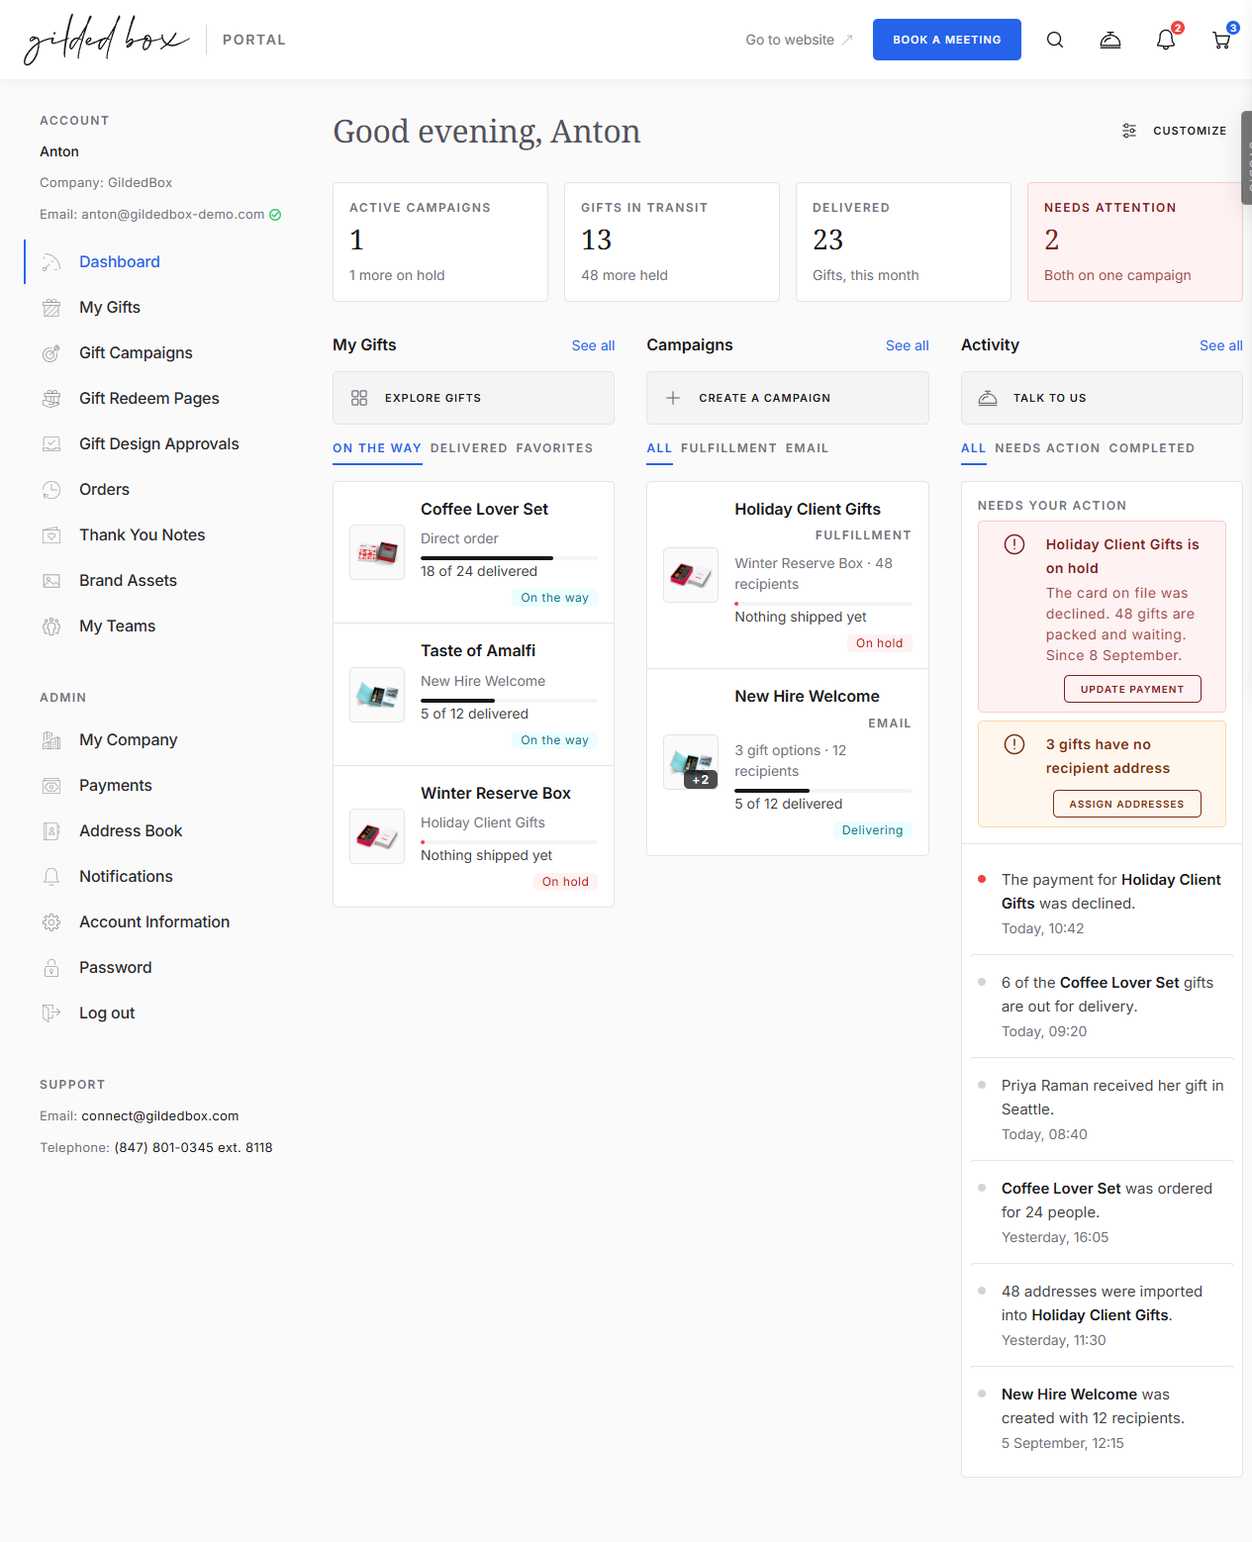
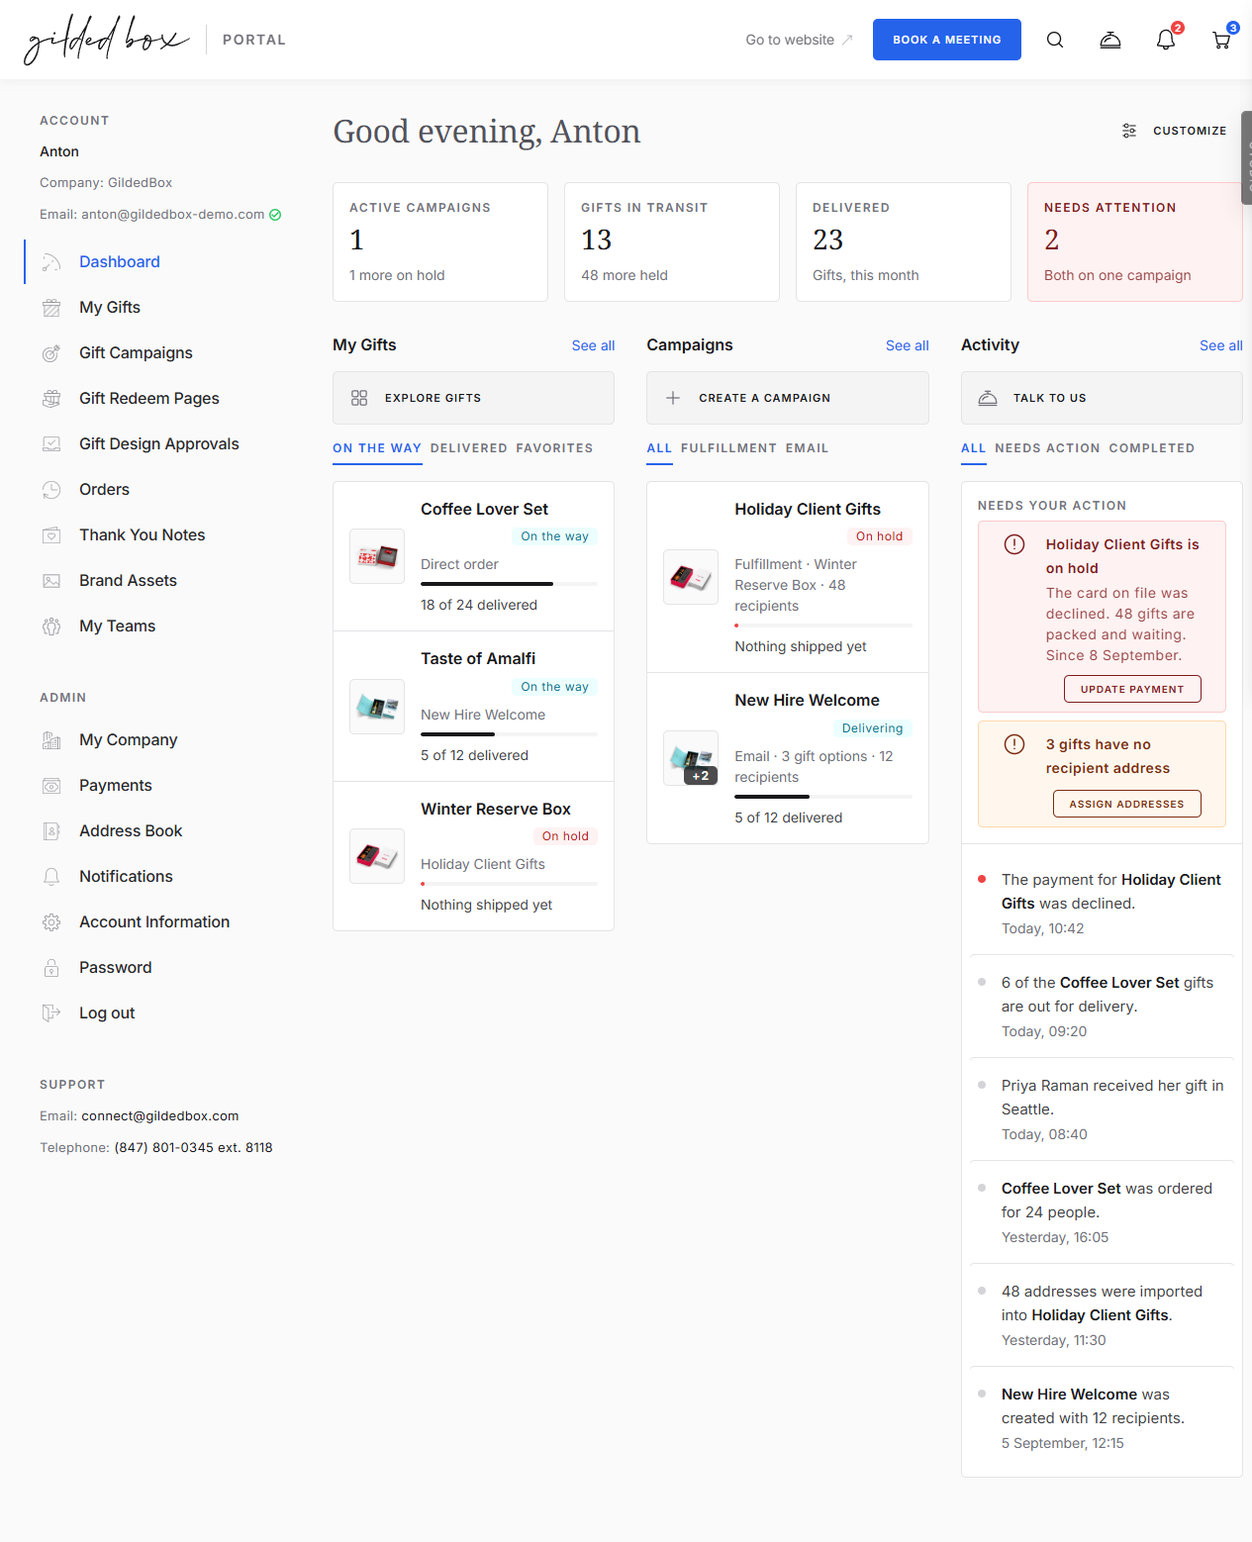
feat(portal): the catalogue slides out on the dashboard itself, and the card sheds its last floor
EXPLORE GIFTS OPENS THE CATALOGUE HERE (Ton, twice: going to
portal.html was a page change dressed as a door). The Tiffany
showcase is ported into live/catalog-overlay.js, a shared page
snippet: the same markup shape, the same vendored v1 catalogue at
?embed=1, and the same measured choreography value for value,
including the curve that was sampled frame by frame on 19.08 and
must not drift. Doors prime the frame on hover, the first open pays
for the load, Esc and the backdrop close it, and the close control
inside the framed catalogue reports back by postMessage as before.

portal.html keeps its own copy for now, on purpose: its overlay is
wired into hero buttons, priming and variants, and rewiring an
approved door under a deadline is how approved things break. One
owner is the next wave, and it is in the report.

CARD v3. The status went back to the top right of the name line,
where a state is looked for, and the TYPE stopped being an eyebrow
altogether: it is the first word of the context line now, which is
the sentence a gift row has always spoken («Direct order · 24
recipients»). A campaign says «Fulfillment · Winter Reserve Box · 48
recipients» in the same slot. One structure for both skins, the
eyebrow floor gone, and the card is a storey shorter than it was
this morning.

Measured after the port: the overlay opens and lands (open settled
revealed), Esc returns display:none with the scroll lock released
[…]

Changed region(s): [[0.2775, 0.3389, 0.4625, 0.6162], [0.5241, 0.3389, 0.7399, 0.5546], [0.5241, 0.3697, 0.5549, 0.4005]]

diff --git a/live/portal-dashboard.html b/live/portal-dashboard.html
@@ -824,19 +824,10 @@ a.gbppd-door, body.gb-demo a.gbppd-door { color: var(--zinc-900); }
    with the ink filling it, and the words under it. The stopped
    campaign fills in the alert's error tone, so the one red line on
    the page is the one thing that is not moving. */
-/* AND THE STATUS CAME DOWN TO THE PROGRESS. "On the way" and "18 of
-   24 delivered" are one family — how far the delivery has got — so
-   they stand on one line, the words at the left and the badge hard
-   against the right. The axis is locked the same way as before. */
+/* The status went back up to the name line (v3): the top right of a
+   card is where a state is looked for, and the progress line is left
+   to say one thing. */
 .gbppd-far { display: block; margin-top: var(--space-8); }
-.gbppd-far__row {
-  display: flex;
-  align-items: center;
-  gap: var(--space-8);
-  flex-wrap: wrap;
-}
-.gbppd-far__row .gb-badge { margin-left: auto; line-height: 1; }
-.gbppd-far__row .gbppd-row__far { margin-top: 0; }
 .gbppd-far__track {
   display: block;
   height: 4px;                       /* NO TOKEN: half of --space-8, the thinnest bar that still reads as a bar */
@@ -934,12 +925,14 @@ a.gbppd-door, body.gb-demo a.gbppd-door { color: var(--zinc-900); }
    the multi gift one, so the flexibility is visible rather than
    promised.
 */
-/* THE TYPE RIDES WITH THE NAME (10.09). It stood on a floor of its
-   own above the title and the card paid a storey for it; a type is
-   metadata OF the identity, so it sits at the right end of the name
-   line, where the status used to be. The gift skin has no type, and
-   that end of its line stays empty: the name owns the row. */
-.gbppd-row__type { flex: 0 0 auto; margin-left: auto; }
+/* THE TYPE IS A WORD OF THE CONTEXT LINE NOW (v3, 10.09). It was an
+   eyebrow on a floor of its own, then a chip at the end of the name
+   line; both spent a card's room on two words. A gift row has always
+   opened its context with where it came from («Direct order · 24
+   recipients»), and a campaign is the same sentence with its type in
+   that first slot: «Fulfillment · Winter Reserve Box · 48
+   recipients». One structure for both skins, one floor fewer, and
+   the eyebrow voice leaves the card entirely. */
 .gbppd-thumbwrap { position: relative; }
 .gbppd-thumbwrap .gbppd-more-count {
   position: absolute;
@@ -1750,7 +1743,7 @@ html[data-gbppd-state="empty"] .gbppd-filled { display: none; }
               <h2 class="gbppd-zone" id="gbppdGiftsTitle">My Gifts</h2>
               <a class="gbppd-more" href="portal.html">See all</a>
             </div>
-            <a class="gbppd-act" href="portal.html?nav=ton&amp;catalog=open">
+            <a class="gbppd-act" href="catalog/index.html" data-gbppd-catalog>
                 <span data-gb-icon="grid" data-gb-icon-size="20"></span>
                 <span class="gbppd-act__name">Explore gifts</span>
                 <span class="gbppd-act__say">The catalog, curated by occasion and budget.</span>
@@ -1769,27 +1762,27 @@ html[data-gbppd-state="empty"] .gbppd-filled { display: none; }
               <a class="gbppd-row" id="ord-coffee" href="#ord-coffee" data-gbppd-order="ord-coffee">
                 <span class="gbppd-thumbwrap"><img class="gbppd-thumb" src="../system/assets/products/1094-main.webp" alt="" loading="lazy"></span>
                 <span>
-                  <span class="gbppd-row__what"><span class="gbppd-row__title">Coffee Lover Set</span></span>
+                  <span class="gbppd-row__what"><span class="gbppd-row__title">Coffee Lover Set</span><span class="gb-badge gb-badge--quiet gb-badge--info">On the way</span></span>
                   <span class="gbppd-row__who">Direct order</span>
-                  <span class="gbppd-far"><span class="gbppd-far__track"><span class="gbppd-far__fill" style="width: 75%"></span></span><span class="gbppd-far__row"><span class="gbppd-row__far">18 of 24 delivered</span><span class="gb-badge gb-badge--quiet gb-badge--info">On the way</span></span></span>
+                  <span class="gbppd-far"><span class="gbppd-far__track"><span class="gbppd-far__fill" style="width: 75%"></span></span><span class="gbppd-row__far">18 of 24 delivered</span></span>
                 </span>
               </a>
 
               <a class="gbppd-row" id="ord-amalfi" href="#ord-amalfi" data-gbppd-order="ord-amalfi">
                 <span class="gbppd-thumbwrap"><img class="gbppd-thumb" src="../system/assets/products/1081-main.webp" alt="" loading="lazy"></span>
                 <span>
-                  <span class="gbppd-row__what"><span class="gbppd-row__title">Taste of Amalfi</span></span>
+                  <span class="gbppd-row__what"><span class="gbppd-row__title">Taste of Amalfi</span><span class="gb-badge gb-badge--quiet gb-badge--info">On the way</span></span>
                   <span class="gbppd-row__who">New Hire Welcome</span>
-                  <span class="gbppd-far"><span class="gbppd-far__track"><span class="gbppd-far__fill" style="width: 42%"></span></span><span class="gbppd-far__row"><span class="gbppd-row__far">5 of 12 delivered</span><span class="gb-badge gb-badge--quiet gb-badge--info">On the way</span></span></span>
+                  <span class="gbppd-far"><span class="gbppd-far__track"><span class="gbppd-far__fill" style="width: 42%"></span></span><span class="gbppd-row__far">5 of 12 delivered</span></span>
                 </span>
               </a>
 
               <a class="gbppd-row" id="ord-holiday" href="#camp-holiday" data-gbppd-order="ord-holiday">
                 <span class="gbppd-thumbwrap"><img class="gbppd-thumb" src="../system/assets/products/1118-main.webp" alt="" loading="lazy"></span>
                 <span>
-                  <span class="gbppd-row__what"><span class="gbppd-row__title">Winter Reserve Box</span></span>
+                  <span class="gbppd-row__what"><span class="gbppd-row__title">Winter Reserve Box</span><span class="gb-badge gb-badge--quiet gb-badge--error">On hold</span></span>
                   <span class="gbppd-row__who">Holiday Client Gifts</span>
-                  <span class="gbppd-far gbppd-far--stopped"><span class="gbppd-far__track"><span class="gbppd-far__fill" style="width: 2%"></span></span><span class="gbppd-far__row"><span class="gbppd-row__far">Nothing shipped yet</span><span class="gb-badge gb-badge--quiet gb-badge--error">On hold</span></span></span>
+                  <span class="gbppd-far gbppd-far--stopped"><span class="gbppd-far__track"><span class="gbppd-far__fill" style="width: 2%"></span></span><span class="gbppd-row__far">Nothing shipped yet</span></span>
                 </span>
               </a>
 
@@ -1803,18 +1796,18 @@ html[data-gbppd-state="empty"] .gbppd-filled { display: none; }
               <a class="gbppd-row" id="ord-founders" href="#ord-founders" data-gbppd-order="ord-founders">
                 <span class="gbppd-thumbwrap"><img class="gbppd-thumb" src="../system/assets/products/1106-main.webp" alt="" loading="lazy"></span>
                 <span>
-                  <span class="gbppd-row__what"><span class="gbppd-row__title">Founders Day Box</span></span>
+                  <span class="gbppd-row__what"><span class="gbppd-row__title">Founders Day Box</span><span class="gb-badge gb-badge--quiet gb-badge--success">Delivered</span></span>
                   <span class="gbppd-row__who">Direct order &middot; 22 August</span>
-                  <span class="gbppd-far"><span class="gbppd-far__track"><span class="gbppd-far__fill" style="width: 100%"></span></span><span class="gbppd-far__row"><span class="gbppd-row__far">All 30 delivered</span><span class="gb-badge gb-badge--quiet gb-badge--success">Delivered</span></span></span>
+                  <span class="gbppd-far"><span class="gbppd-far__track"><span class="gbppd-far__fill" style="width: 100%"></span></span><span class="gbppd-row__far">All 30 delivered</span></span>
                 </span>
               </a>
 
               <a class="gbppd-row" id="ord-thankyou" href="#ord-thankyou" data-gbppd-order="ord-thankyou">
                 <span class="gbppd-thumbwrap"><img class="gbppd-thumb" src="../system/assets/products/1112-main.webp" alt="" loading="lazy"></span>
                 <span>
-                  <span class="gbppd-row__what"><span class="gbppd-row__title">Client Thank You</span></span>
+                  <span class="gbppd-row__what"><span class="gbppd-row__title">Client Thank You</span><span class="gb-badge gb-badge--quiet gb-badge--success">Delivered</span></span>
                   <span class="gbppd-row__who">Direct order &middot; 2 August</span>
-                  <span class="gbppd-far"><span class="gbppd-far__track"><span class="gbppd-far__fill" style="width: 100%"></span></span><span class="gbppd-far__row"><span class="gbppd-row__far">All 15 delivered</span><span class="gb-badge gb-badge--quiet gb-badge--success">Delivered</span></span></span>
+                  <span class="gbppd-far"><span class="gbppd-far__track"><span class="gbppd-far__fill" style="width: 100%"></span></span><span class="gbppd-row__far">All 15 delivered</span></span>
                 </span>
               </a>
 
@@ -1890,9 +1883,9 @@ html[data-gbppd-state="empty"] .gbppd-filled { display: none; }
               <a class="gbppd-row gbppd-camp" id="camp-holiday" href="#camp-holiday" data-gbppd-type="fulfillment" data-gbppd-order="ord-holiday">
                 <span class="gbppd-thumbwrap"><img class="gbppd-thumb" src="../system/assets/products/1118-main.webp" alt="" loading="lazy"></span>
                 <span>
-                  <span class="gbppd-row__what"><span class="gbppd-row__title">Holiday Client Gifts</span><span class="gb-eyebrow gbppd-row__type">Fulfillment</span></span>
-                  <span class="gbppd-row__who">Winter Reserve Box &middot; 48 recipients</span>
-                  <span class="gbppd-far gbppd-far--stopped"><span class="gbppd-far__track"><span class="gbppd-far__fill" style="width: 2%"></span></span><span class="gbppd-far__row"><span class="gbppd-row__far">Nothing shipped yet</span><span class="gb-badge gb-badge--quiet gb-badge--error">On hold</span></span></span>
+                  <span class="gbppd-row__what"><span class="gbppd-row__title">Holiday Client Gifts</span><span class="gb-badge gb-badge--quiet gb-badge--error">On hold</span></span>
+                  <span class="gbppd-row__who">Fulfillment &middot; Winter Reserve Box &middot; 48 recipients</span>
+                  <span class="gbppd-far gbppd-far--stopped"><span class="gbppd-far__track"><span class="gbppd-far__fill" style="width: 2%"></span></span><span class="gbppd-row__far">Nothing shipped yet</span></span>
                 </span>
               </a>
 
@@ -1909,9 +1902,9 @@ html[data-gbppd-state="empty"] .gbppd-filled { display: none; }
               <a class="gbppd-row gbppd-camp" id="camp-newhire" href="#camp-newhire" data-gbppd-type="email" data-gbppd-order="ord-amalfi">
                 <span class="gbppd-thumbwrap"><img class="gbppd-thumb" src="../system/assets/products/1081-main.webp" alt="" loading="lazy"><span class="gbppd-more-count" aria-hidden="true">+2</span></span>
                 <span>
-                  <span class="gbppd-row__what"><span class="gbppd-row__title">New Hire Welcome</span><span class="gb-eyebrow gbppd-row__type">Email</span></span>
-                  <span class="gbppd-row__who">3 gift options &middot; 12 recipients</span>
-                  <span class="gbppd-far"><span class="gbppd-far__track"><span class="gbppd-far__fill" style="width: 42%"></span></span><span class="gbppd-far__row"><span class="gbppd-row__far">5 of 12 delivered</span><span class="gb-badge gb-badge--quiet gb-badge--info">Delivering</span></span></span>
+                  <span class="gbppd-row__what"><span class="gbppd-row__title">New Hire Welcome</span><span class="gb-badge gb-badge--quiet gb-badge--info">Delivering</span></span>
+                  <span class="gbppd-row__who">Email &middot; 3 gift options &middot; 12 recipients</span>
+                  <span class="gbppd-far"><span class="gbppd-far__track"><span class="gbppd-far__fill" style="width: 42%"></span></span><span class="gbppd-row__far">5 of 12 delivered</span></span>
                 </span>
               </a>
 
@@ -2086,6 +2079,11 @@ html[data-gbppd-state="empty"] .gbppd-filled { display: none; }
   <script src="concierge/concierge.js"></script>
   <!-- The cart plate opens an overview, not a page. Shared with
        live\portal.html; see the head of the file. -->
+  <!-- Explore gifts opens the catalogue ON THIS PAGE: the Tiffany
+       showcase of live\portal.html, ported whole. -->
+  <script src="catalog-overlay.js"
+          data-open="[data-gbppd-catalog]"
+          data-src="catalog/index.html?embed=1"></script>
   <script src="cart-drawer.js"
           data-cart-button="#gbppdCart"
           data-checkout="checkout.html?v=5"

diff --git a/live/catalog-overlay.js b/live/catalog-overlay.js
@@ -1,0 +1,162 @@
+/* ============================================================
+   gbppl-catalog-overlay-1 — THE CATALOGUE COMES TO THE PAGE
+   ------------------------------------------------------------
+   Ton, 10.09, twice: Explore gifts must open the catalogue ON THE
+   DASHBOARD, the way it opens on My Gifts. Sending the person to
+   live\portal.html was a page change dressed as a door.
+
+   WHAT THIS IS. The Tiffany showcase of live\portal.html, ported as
+   a shared page snippet: the same markup shape (overlay > backdrop +
+   panel > iframe), the same vendored v1 catalogue at ?embed=1, and
+   the same measured choreography, value for value, including the
+   curve that was sampled frame by frame on 19.08 and must not drift:
+
+     --tf-curve   cubic-bezier(.37,0,.18,1)   the journey
+     --tf-travel  1200ms                       its length (T 19.08)
+     --tf-dim     320ms                        the backdrop
+     --tf-settle  140ms                        veil -> object
+     --tf-reveal-at 480ms / --tf-reveal 880ms  the content's cue
+     --tf-exit 640ms, lag 140ms, out 300ms     the retreat
+     panel 95% pinned right, Zinc 50, radius on the front corners
+     backdrop rgba(24,24,27,.4)  (NO TOKEN, the page's own pair)
+
+   WHAT IT IS NOT: a second implementation. live\portal.html keeps
+   its own copy for now, because that page's overlay is wired into
+   its hero buttons, its priming and its variants, and rewiring a
+   showcase-approved door under a deadline is how approved things
+   break. The honest end of this story is one owner, and it is in
+   the report as the next wave: portal.html adopts this file and
+   deletes its block.
+
+   HOW A PAGE TURNS IT ON:
+     <script src="catalog-overlay.js"
+             data-open="[data-gbppd-catalog]"   the doors
+             data-src="catalog/index.html?embed=1"></script>
+   Every door primes the frame on hover or focus, and the first open
+   pays for the load exactly as the original does.
+   ============================================================ */
+(function () {
+  'use strict';
+
+  var self = document.currentScript;
+  if (!self) return;
+
+  var DOORS = self.getAttribute('data-open') || '[data-gbppd-catalog]';
+  var SRC   = self.getAttribute('data-src') || 'catalog/index.html?embed=1';
+
+  var TRAVEL = 1200, SETTLE_AT = 1200, REVEAL_AT = 480, EXIT = 640 + 140, GRACE = 60;
+
+  var CSS =
+  '.gbppd-cat{--tf-curve:cubic-bezier(.37,0,.18,1);--tf-exit-curve:cubic-bezier(.4,0,1,1);' +
+  '--tf-dim:320ms;--tf-travel:1200ms;--tf-settle:140ms;--tf-reveal:880ms;--tf-out:300ms;' +
+  '--tf-exit-lag:140ms;--tf-exit:640ms;--tf-dim-out-delay:300ms;' +
+  'position:fixed;inset:0;z-index:59;display:none}' +   /* 59: over the page and the studio's inspect layer, under the console 60 and the drawer 80 */
+  '.gbppd-cat.open,.gbppd-cat.closing{display:block}' +
+  '.gbppd-cat.closing{pointer-events:none}' +
+  '.gbppd-cat__scrim{position:absolute;inset:0;background:rgba(24,24,27,.4);opacity:0;' +
+  'transition:opacity var(--tf-dim) ease-out}' +
+  '.gbppd-cat.open .gbppd-cat__scrim{opacity:1}' +
+  '.gbppd-cat.closing .gbppd-cat__scrim{transition:opacity var(--tf-dim) ease-out var(--tf-dim-out-delay)}' +
+  '.gbppd-cat__panel{position:absolute;top:0;right:0;height:100%;width:95%;background:var(--zinc-50);' +
+  'border-left:1px solid var(--zinc-200);border-radius:var(--radius) 0 0 var(--radius);' +
+  'transform:translateX(100%);transition:transform var(--tf-travel) var(--tf-curve);' +
+  'will-change:transform;display:flex;flex-direction:column;overflow:hidden}' +
+  '.gbppd-cat.open .gbppd-cat__panel{transform:translateX(0)}' +
+  '.gbppd-cat.closing .gbppd-cat__panel{transform:translateX(100%);' +
+  'transition:transform var(--tf-exit) var(--tf-exit-curve) var(--tf-exit-lag)}' +
+  '.gbppd-cat__frame{flex:1;width:100%;border:0;display:block;background:var(--zinc-50);' +
+  'opacity:0;transform:scale(.994);transition:opacity var(--tf-reveal) ease-out,transform var(--tf-reveal) ease-out}' +
+  '.gbppd-cat.revealed .gbppd-cat__frame{opacity:1;transform:none}' +
+  '.gbppd-cat.closing .gbppd-cat__frame{opacity:0;transform:none;transition:opacity var(--tf-out) ease-in}' +
+  'body.gbppd-cat-locked{overflow:hidden;padding-right:var(--gbppd-sbw,0px)}';
+
+  var style = document.createElement('style');
+  style.textContent = CSS;
+  document.head.appendChild(style);
+
+  var overlay = document.createElement('div');
+  overlay.className = 'gbppd-cat';
+  overlay.setAttribute('aria-hidden', 'true');
+  overlay.innerHTML =
+    '<div class="gbppd-cat__scrim" data-gbppd-cat-close></div>' +
+    '<div class="gbppd-cat__panel" role="dialog" aria-modal="true" aria-label="Explore Gifts">' +
+    '<iframe class="gbppd-cat__frame" title="Gift catalog" data-src="' + SRC + '"></iframe></div>';
+
+  var frame = overlay.querySelector('.gbppd-cat__frame');
+  var loaded = false, openedAt = 0, tSettle, tReveal, tClose;
+
+  function mount() {
+    if (!overlay.parentNode) document.body.appendChild(overlay);
+  }
+  /* Reaching for the door is the asking: the frame is fetched on
+     hover or focus, once, and the first open pays for nothing it can
+     avoid (the original's primeCatalog). */
+  function prime() {
+    mount();
+    if (!frame.getAttribute('src')) frame.setAttribute('src', frame.getAttribute('data-src'));
+  }
+  frame.addEventListener('load', function () {
+    loaded = true;
+    if (overlay.classList.contains('open')) reveal();
+  });
+  function reveal() {
+    clearTimeout(tReveal);
+    var left = REVEAL_AT - (Date.now() - openedAt);
+    tReveal = setTimeout(function () { overlay.classList.add('revealed'); }, Math.max(left, GRACE));
+  }
+
+  function open() {
+    mount();
+    var cold = !frame.getAttribute('src');
+    document.documentElement.style.setProperty('--gbppd-sbw',
+      (window.innerWidth - document.documentElement.clientWidth) + 'px');
+    document.body.classList.add('gbppd-cat-locked');
+    clearTimeout(tClose);
+    overlay.classList.remove('closing');
+    overlay.style.display = 'block';
+    /* Two-phase enter: displayed in the hidden pose first, opened one
+       reflow later, so the travel actually runs. */
+    void overlay.offsetWidth;
+    overlay.classList.add('open');
+    overlay.setAttribute('aria-hidden', 'false');
+    openedAt = Date.now();
+    clearTimeout(tSettle);
+    tSettle = setTimeout(function () { overlay.classList.add('settled'); }, SETTLE_AT);
+    if (cold) requestAnimationFrame(prime);
+    if (loaded) reveal();
+  }
+
+  function close() {
+    if (!overlay.classList.contains('open')) return;
+    clearTimeout(tSettle); clearTimeout(tReveal);
+    overlay.classList.remove('open', 'settled', 'revealed');
+    overlay.classList.add('closing');
+    overlay.setAttribute('aria-hidden', 'true');
+    document.body.classList.remove('gbppd-cat-locked');
+    tClose = setTimeout(function () {
+      overlay.classList.remove('closing');
+      overlay.style.display = '';
+    }, EXIT);
+  }
+
+  /* The close control lives INSIDE the framed catalogue (v1 embed
+     mode) and reports back the way the original taught it to. */
+  window.addEventListener('message', function (e) {
+    if (e && e.data && e.data.type === 'gb-close-catalog') close();
+  });
+  document.addEventListener('click', function (e) {
+    var door = e.target.closest ? e.target.closest(DOORS) : null;
+    if (door) { e.preventDefault(); open(); return; }
+    if (e.target.closest && e.target.closest('[data-gbppd-cat-close]')) close();
+  });
+  document.addEventListener('keydown', function (e) {
+    if (e.key === 'Escape') close();
+  });
+  ['pointerenter', 'focus'].forEach(function (ev) {
+    document.addEventListener(ev, function (e) {
+      if (e.target.closest && e.target.closest(DOORS)) prime();
+    }, true);
+  });
+
+  window.GbCatalogOverlay = { open: open, close: close, prime: prime };
+}());
